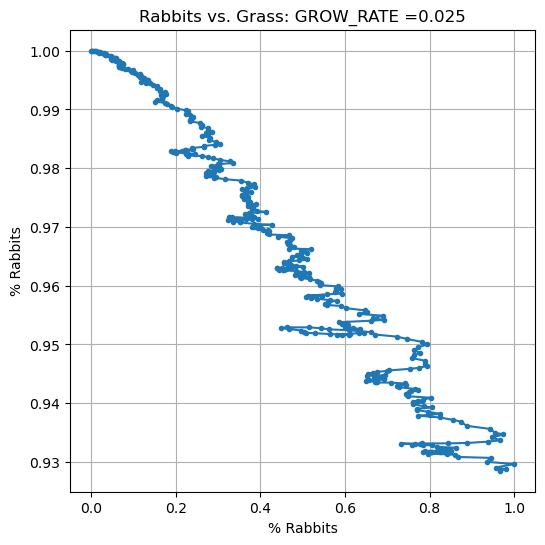
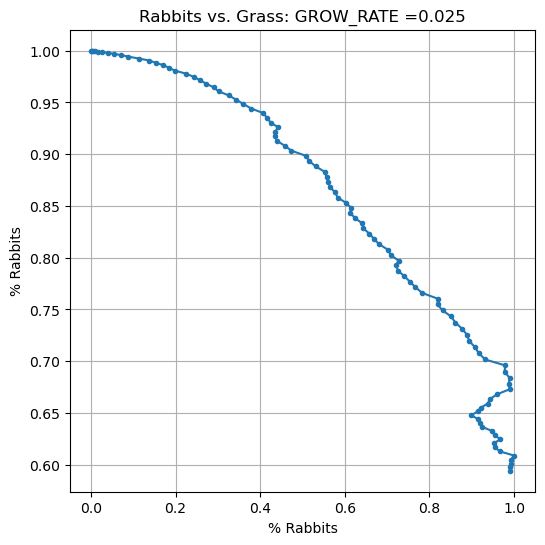
m

diff --git a/ic_alife.py b/ic_alife.py
@@ -7,14 +7,14 @@ import seaborn as sns
 import argparse as ap
 from matplotlib import colors
 
-SIZE = 500  # The dimensions of the field
-fsize = 500
-# OFFSPRING = 2  # Max offspring offspring when a rabbit reproduces
+SIZE = 50  # The dimensions of the field
+fsize = 50
+# OFFSPRING = 2  # Max offspring when a rabbit reproduces
 GRASS_RATE = 0.025  # Probability that grass grows back at any location in the next season.
 WRAP = False  # Does the field wrap around on itself when rabbits move?
 
 
-class Rabbit:
+class Animal:
     """ A furry creature roaming a field in search of grass to eat.
     Mr. Rabbit must eat enough to reproduce, otherwise he will starve. """
 
@@ -43,14 +43,14 @@ class Rabbit:
         self.eats = eats
 
     def reproduce(self):
-        """ Make a new rabbit at the same location.
+        """ Make a new animal at the same location.
          Reproduction is hard work! Each reproducing
          rabbit's eaten level is reset to zero. """
         self.eaten = 0
         return copy.deepcopy(self)
 
     def eat(self, amount):
-        """ Feed the rabbit some grass """
+        """Feed the animal"""
         self.eaten += amount
 
     def move(self):
@@ -89,7 +89,7 @@ class Field:
     def __init__(self, size):
         """ Create a patch of grass with dimensions SIZE x SIZE
         and initially no rabbits """
-        self.rabbits = []
+        self.animals = []
         self.nrabbits = []
         # self.nfoxes = []
         self.nfoxes = []
@@ -97,21 +97,21 @@ class Field:
         self.size = size
         self.field = np.ones(shape=(self.size, self.size), dtype=int)
 
-    def add_rabbit(self, rabbit):
-        """ A new rabbit is added to the field """
-        self.rabbits.append(rabbit)
+    def add_animal(self, animal):
+        """ A new animal is added to the field """
+        self.animals.append(animal)
 
     def move(self):
-        """ Rabbits move """
-        for r in self.rabbits:
+        """ Animals move """
+        for r in self.animals:
             r.move()
 
     def eat(self):
-        """ Rabbits eat (if they find grass where they are) """
+        """ Animals eat (if they find grass where they are) """
         # for rabbit in self.rabbits:
         #     rabbit.eat(self.field[rabbit.x, rabbit.y])
         #     self.field[rabbit.x, rabbit.y] = 0
-        for animal in self.rabbits:
+        for animal in self.animals:
             # check pixel of field's current value
             if self.field[animal.x, animal.y] in animal.eats:
                 animal.eat(self.field[animal.x, animal.y])
@@ -120,15 +120,15 @@ class Field:
     def survive(self):
         """ Rabbits who eat some grass live to eat another day """
         # self.rabbits = [r for r in self.rabbits if r.eaten > 0]
-        self.rabbits = [r for r in self.rabbits if r.survive()]
+        self.animals = [r for r in self.animals if r.survive()]
 
     def reproduce(self):
         """ Rabbits reproduce like rabbits. """
         born = []
-        for rabbit in self.rabbits:
-            for _ in range(rnd.randint(1, rabbit.max_offspring)):
-                born.append(rabbit.reproduce())
-        self.rabbits += born
+        for animal in self.animals:
+            for _ in range(rnd.randint(1, animal.max_offspring)):
+                born.append(animal.reproduce())
+        self.animals += born
 
         # Capture field state for historical tracking
         self.nrabbits.append(len(self.num_animals()[2]))
@@ -140,27 +140,29 @@ class Field:
         growloc = (np.random.rand(self.size, self.size) < GRASS_RATE) * 1
         self.field = np.maximum(self.field, growloc)
 
-    def get_rabbits(self):
-        rabbits = np.zeros(shape=(self.size, self.size), dtype=int)
-        for r in self.rabbits:
-            rabbits[r.x, r.y] = r.id
-        return rabbits
+    def get_animals(self):
+        """2D array where each element represents presence/absence of animal w/ ID"""
+        animals = np.zeros(shape=(self.size, self.size), dtype=int)
+        for r in self.animals:
+            animals[r.x, r.y] = r.id
+        return animals
 
     def num_animals(self):
-        """ How many rabbits are there in the field ? """
+        """ How many animals are there in the field?"""
         num_dict = {}
 
         # add empty lists to the dict for each id present
-        for r in self.rabbits:
+        for r in self.animals:
             num_dict[r.id] = []
 
-        for r in self.rabbits:
+        for r in self.animals:
             num_dict[r.id] += [r]
 
         return num_dict
         # return len([r for r in self.rabbits if r.id == 2])
 
     def amount_of_grass(self):
+        """How much grass is there?"""
         return self.field.sum()
 
     def generation(self):
@@ -172,7 +174,6 @@ class Field:
         self.grow()
 
     def history(self, showTrack=True, showPercentage=True, marker='.'):
-
         plt.figure(figsize=(6, 6))
         plt.xlabel("# Rabbits")
         plt.ylabel("# Grass")
@@ -183,11 +184,11 @@ class Field:
             xs = [x / maxrabbit for x in xs]
             plt.xlabel("% Rabbits")
 
-        xf = self.nfoxes[:]
-        if showPercentage:
-            maxfox = max(xf)
-            xf = [x / maxfox for x in xf]
-            plt.xlabel("% Foxes")
+        # xf = self.nfoxes[:]
+        # if showPercentage:
+        #     maxfox = max(xf)
+        #     xf = [x / maxfox for x in xf]
+        #     plt.xlabel("% Foxes")
 
         ys = self.ngrass[:]
         if showPercentage:
@@ -197,7 +198,7 @@ class Field:
 
         if showTrack:
             plt.plot(xs, ys, marker=marker)
-            plt.plot(xf, ys, marker=marker)
+            #plt.plot(xf, ys, marker=marker)
         else:
             plt.scatter(xs, ys, marker=marker)
 
@@ -289,12 +290,13 @@ def main():
     # for _ in range(init_fox):
     #     field.add_rabbit(Rabbit(3, 1, 1, fox_k, (2,), fsize))
 
-    for _ in range(10):
-        field.add_rabbit(Rabbit(2, 1, 1, 1, (1,), fsize))
+    # add rabbit
+    for _ in range(1):
+        field.add_animal(Animal(2, 1, 1, 1, (1,), fsize))
 
     # add fox
     for _ in range(3):
-        field.add_rabbit(Rabbit(3, 1, 2, 1, (2,), fsize))
+        field.add_animal(Animal(3, 1, 2, 1, (2,), fsize))
 
     array = np.ones(shape=(fsize, fsize), dtype=int)
     fig = plt.figure(figsize=(5, 5))
